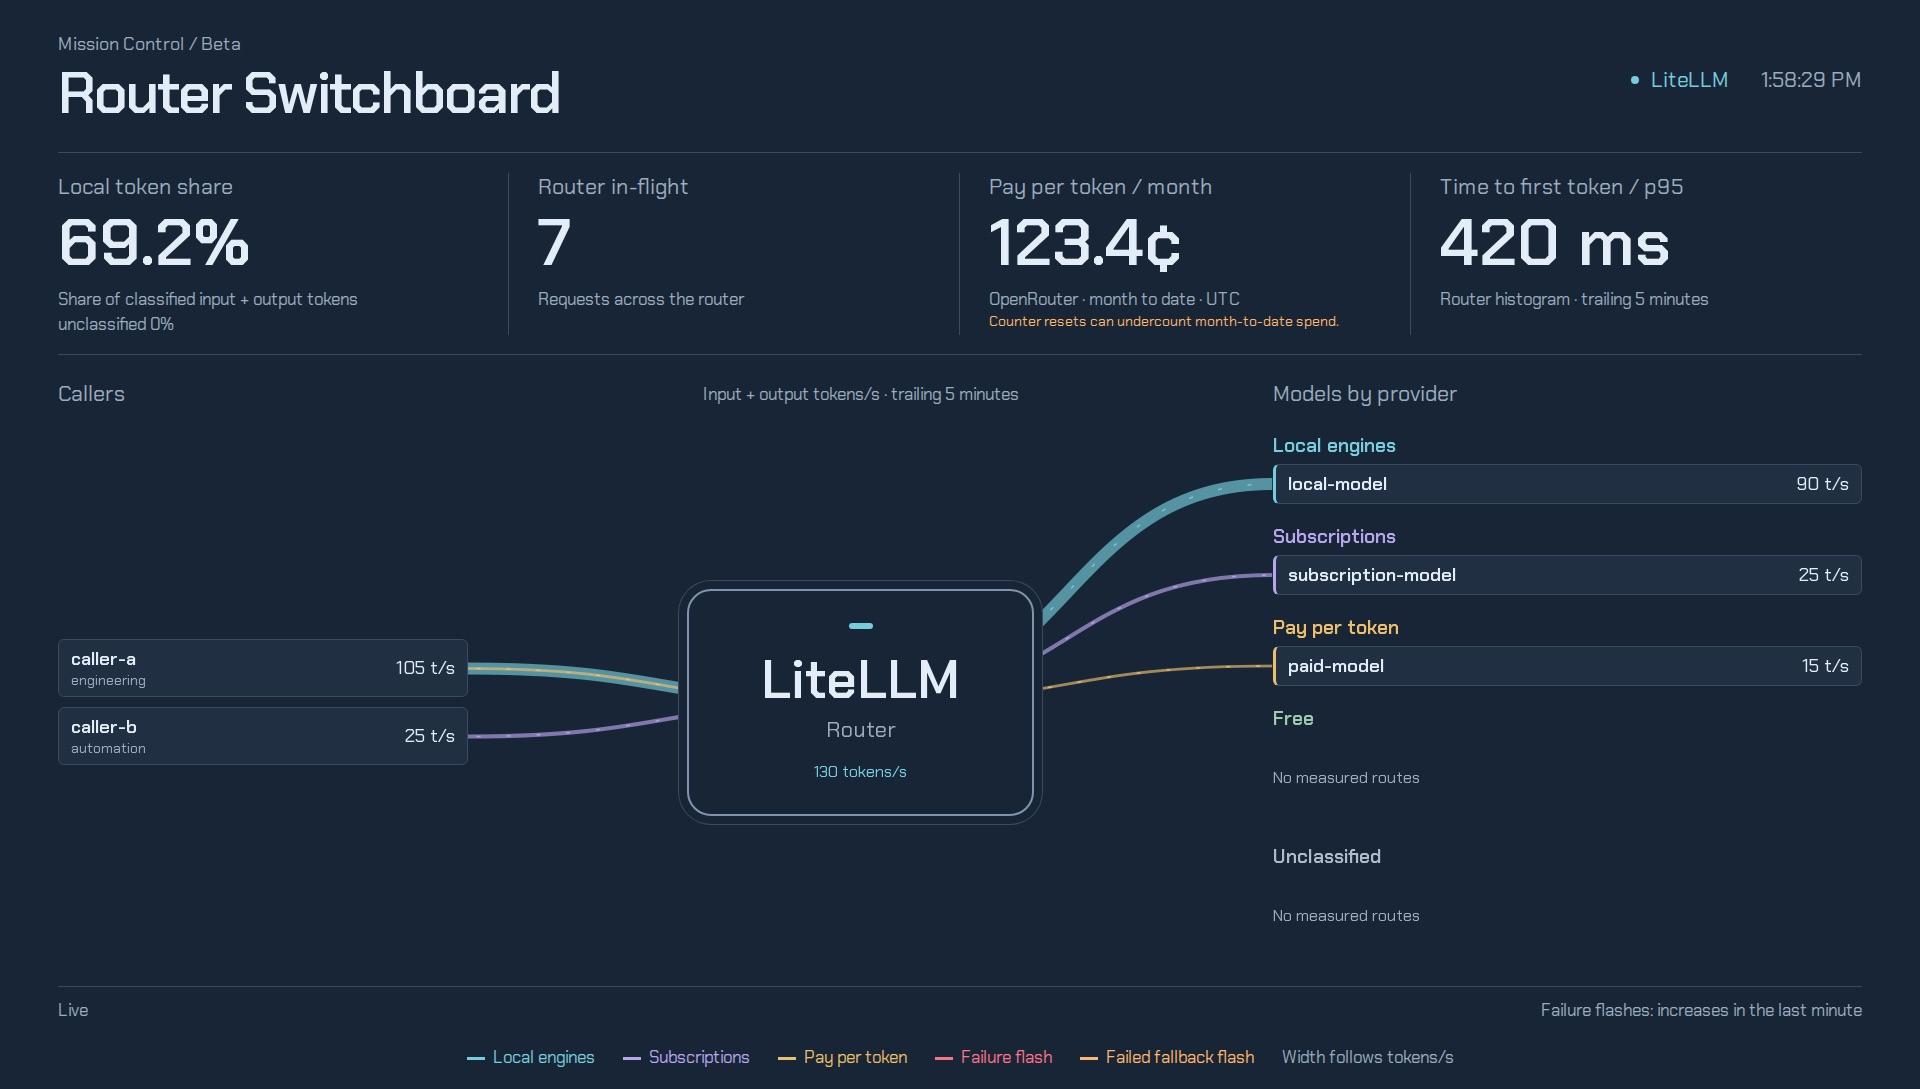
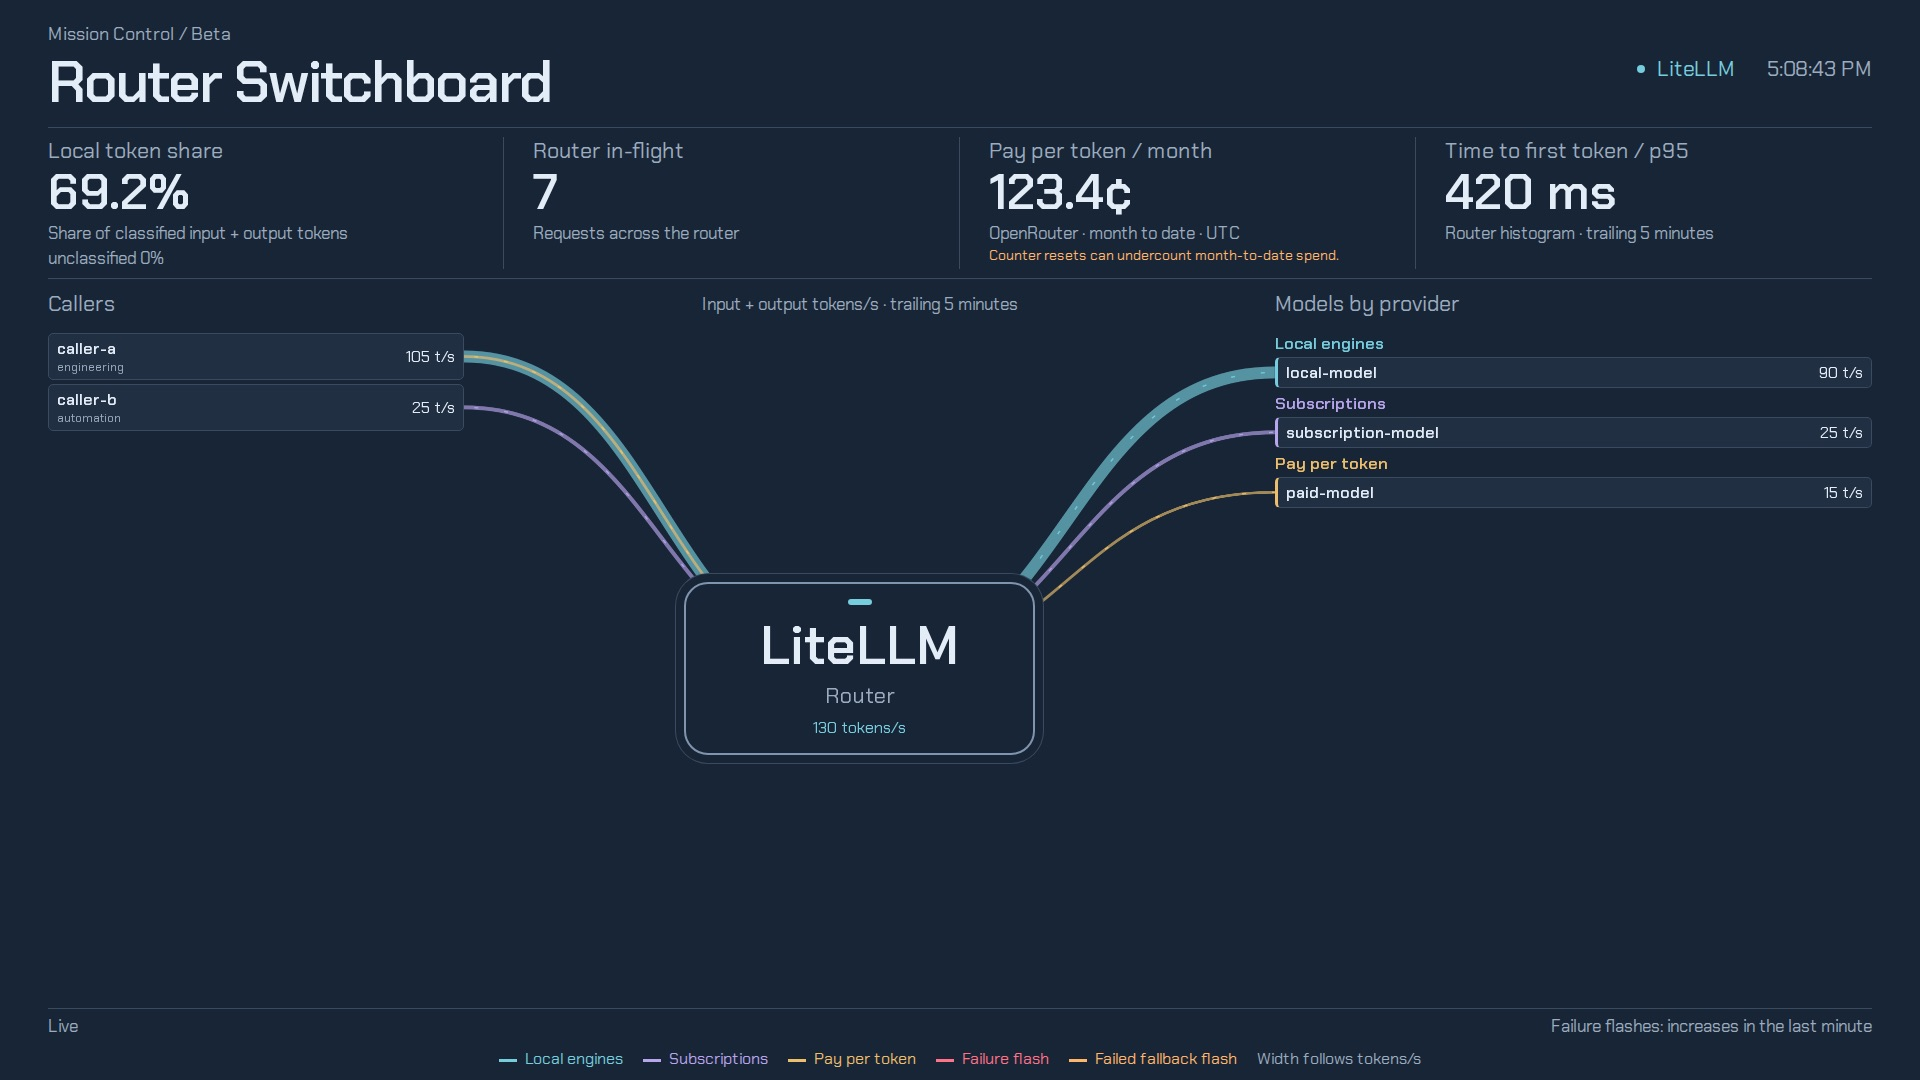
docs: describe one-screen pages, MC8 real traffic and mouse movement
Assisted-by: Claude:claude-opus-5-5
Claude-Session: https://claude.ai/code/session_013nwrmdMWAiFsKMqsdvxH84

diff --git a/docs/mc8.md b/docs/mc8.md
@@ -17,10 +17,15 @@ names this slide `SWITCHBOARD`.
     5 minutes, in milliseconds.
 - Switchboard: callers on the left, the LiteLLM hub in the middle, and models by provider on the right.
   - Routes retain caller alias and team, model, and provider labels.
+  - Token rates exclude the router's own health-check caller.
+  - The page fits one screen. A column that cannot fit shows its top rows by rate plus one `+N more` row with their
+    combined rate.
+  - Routes to a collapsed caller or model end at its `+N more` row.
   - Width means input plus output tokens/s over 5 minutes.
   - Focus or hover a caller or model to trace its paths.
   - The hub reads the total tokens/s, or `Idle` at zero.
 - Billing banks: models sit in banks for local engines, subscriptions, pay per token, free, and unclassified.
+  - A bank with no measured model draws nothing.
   - Billing banks use the token series' `tag_telemetry_billing_class_` labels: `local`, `subscription`, `paid`, and
     `free`, when their string value is `true`.
   - Series with all flags false or missing remain Unclassified; provider names never determine billing.
@@ -28,6 +33,7 @@ names this slide `SWITCHBOARD`.
 - Failure flashes:
   - Failure flashes apply to model edges with measured failure or failed-fallback increases over the last minute.
   - Those counters do not establish caller attribution.
+  - A `+N more` row carries the failure markers of the models collapsed into it.
   - Model failure markers also appear at zero token throughput; failure-only models show `No token rate` rather
     than a made-up zero.
   - Failure and failed-fallback indicators cover the one-minute window that ends at each result's evaluation time,

diff --git a/docs/runtime-contract.md b/docs/runtime-contract.md
@@ -78,6 +78,8 @@ The feed publisher produces snapshot mode's file. Its contract:
   duration and leaves snapshot samples intact.
 - Range also accepts `{bounds: {start, end}}` to fix a live request's window.
 - `settle()` runs a set of queries and yields `null` for each one that failed, so only that panel is affected.
+- Live queries and the snapshot fetch time out after 10 seconds. A timed-out query counts as failed.
+- `site/lib/refresh.js` `guardRefresh` skips an interval tick while the previous refresh is still running.
 - Run the client tests offline with `node --test 'tests/*.test.js' 'tests/*.test.mjs'`.
 
 ## Other feeds
@@ -124,4 +126,7 @@ The feed publisher produces snapshot mode's file. Its contract:
 - Under heavy load, MC2 to MC6 lower their own render quality in steps: pixel ratio first, then bloom, then a cap
   of 30 frames per second. They step back up when frames are light again.
 - A page taller than the viewport scrolls itself down and back up, except under reduced motion.
+- `site/lib/pointer.js` gives MC2, MC3 and MC4 a bounded mouse offset on their camera.
+  - It runs only on a top-level page with a fine pointer and motion allowed, so a rotator slide never uses it.
+  - The offset eases back to zero when the pointer leaves the page.
 - `refreshSeconds` sets each page's poll interval. MC1 to MC7 also reload themselves every 24 hours.

diff --git a/docs/mc7.md b/docs/mc7.md
@@ -21,6 +21,7 @@ cards show per-model latency from real requests as the router records it. The ro
   - Tokens/joule divides the recorded hourly generation rate by hourly mean power.
   - These are device totals, shown only when an engine exposes an accelerator association, not per-model power
     allocations.
+- The page fits one screen at 1920×1080, 2560×1440 and 1440×900, with every metric visible.
 - Router latency: one card per model with a real request in the last 4 days (`llmUsed4d`).
   - Router readings exclude the router's own health-check caller.
   - A listed model with no readings keeps its card, which reads `NO DATA`.

diff --git a/README.md b/README.md
@@ -56,6 +56,7 @@ open 'http://localhost:4173/?gl=2d'  # force 2D rendering; ?gl=3d forces 3D
 - Open `/` full screen on a 1920×1080 display. The rotator cycles the pages, or the `slides` list in `config.json`.
 - [The rotator page](docs/rotator.md) covers the default order, the controls and the reload rules.
 - Each page refreshes its data every `refreshSeconds` in `config.json`, 15 seconds by default.
+- A page opened directly, outside the rotator, moves its 3D camera with the mouse on MC2, MC3 and MC4.
 
 Snapshot mode reads every query from one static file instead of `/api/prom`. Add its path to `config.json`:
 

diff --git a/docs/mc3.md b/docs/mc3.md
@@ -14,6 +14,7 @@ the bottom.
   - Active is the router-wide count of requests in flight.
 - Fleet health: the AI services and their health scores, with a ring that shows their mean score.
   - It lists only services whose health-check group is `AI · UI` or `AI · API`.
+  - Seven or more services use two compact columns, so the whole list and the readings below it fit the panel.
   - The title counts services OK, DEG (degraded) and DOWN.
   - Below the list: requests per minute, a graphics processing unit (GPU) tile with the mean accelerator busy
     percent, one sparkline per model, and a list of recent requests.

diff --git a/docs/mc5.md b/docs/mc5.md
@@ -42,4 +42,7 @@ for the organization's events, repositories and releases.
   - Each stand-in panel carries `data-source="stand-in"`. Nothing on screen marks it.
 - Service health: with no scored app, the grid shows sample scores, marked `data-source="stand-in"`, and records
   state `empty`.
-- Pending, Idle, STALE, NO DATA and Unavailable: not used on MC5.
+- Service health after a failed score query:
+  - With no held scores, the panel records state `error` and reads `SCORE QUERY FAILED`.
+  - With held scores, it keeps them and records state `stale`.
+- Pending, Idle, NO DATA and Unavailable: not used on MC5.

diff --git a/docs/mc2.md b/docs/mc2.md
@@ -31,4 +31,7 @@ The globe and the two edge panels have no data source.
 - Service health:
   - With no scored app, the strip counts sample scores, marked `data-source="stand-in"`, and records state `empty`.
   - With no apps configured, the strip records state `empty`.
-- Pending, Idle, STALE, NO DATA and Unavailable: not used on MC2.
+- Service health after a failed score query:
+  - With no held scores, the panel records state `error` and reads `SCORE QUERY FAILED`.
+  - With held scores, it keeps them and records state `stale`.
+- Pending, Idle, NO DATA and Unavailable: not used on MC2.
